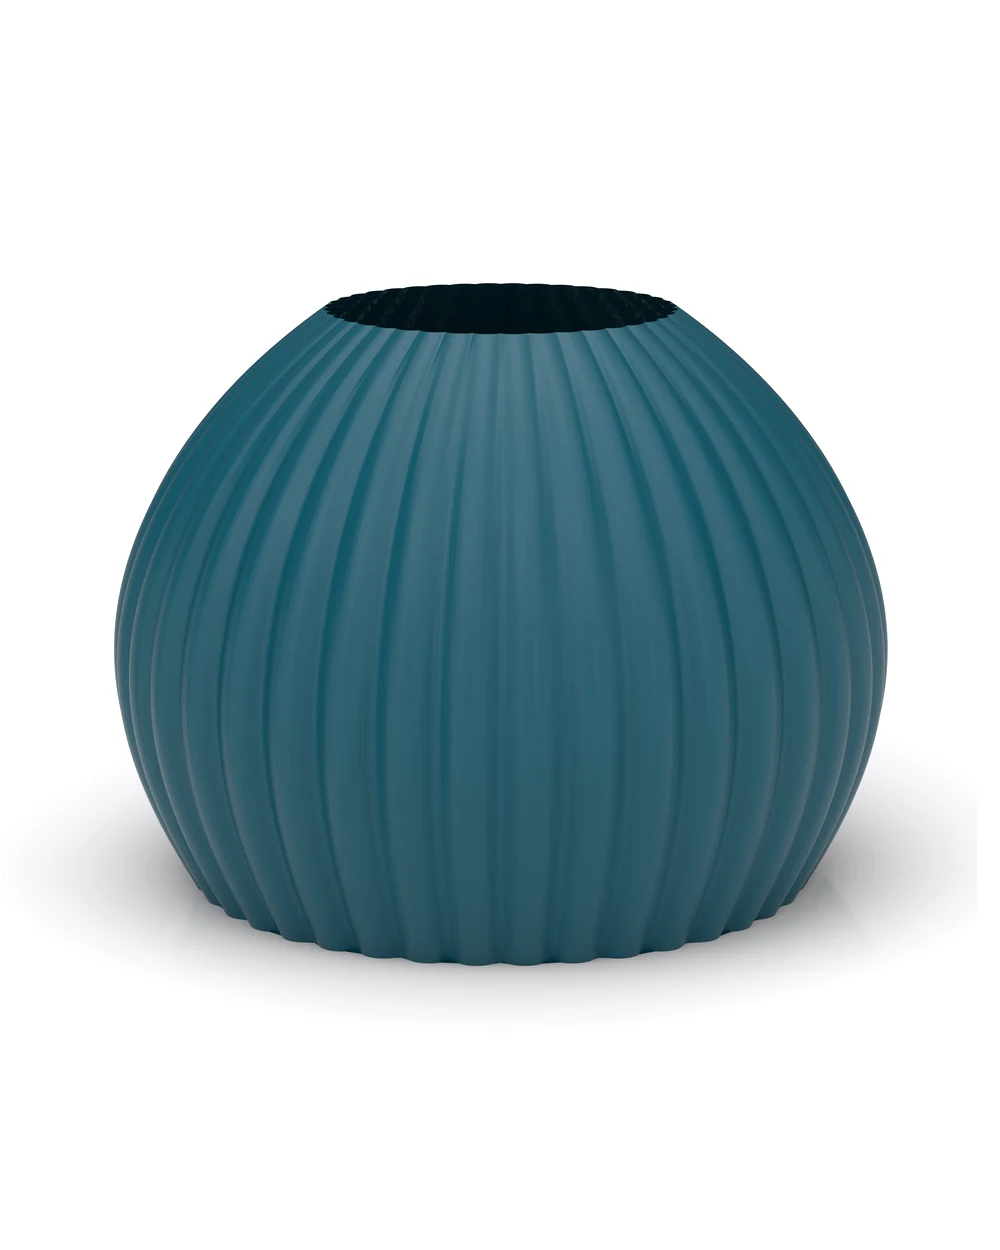
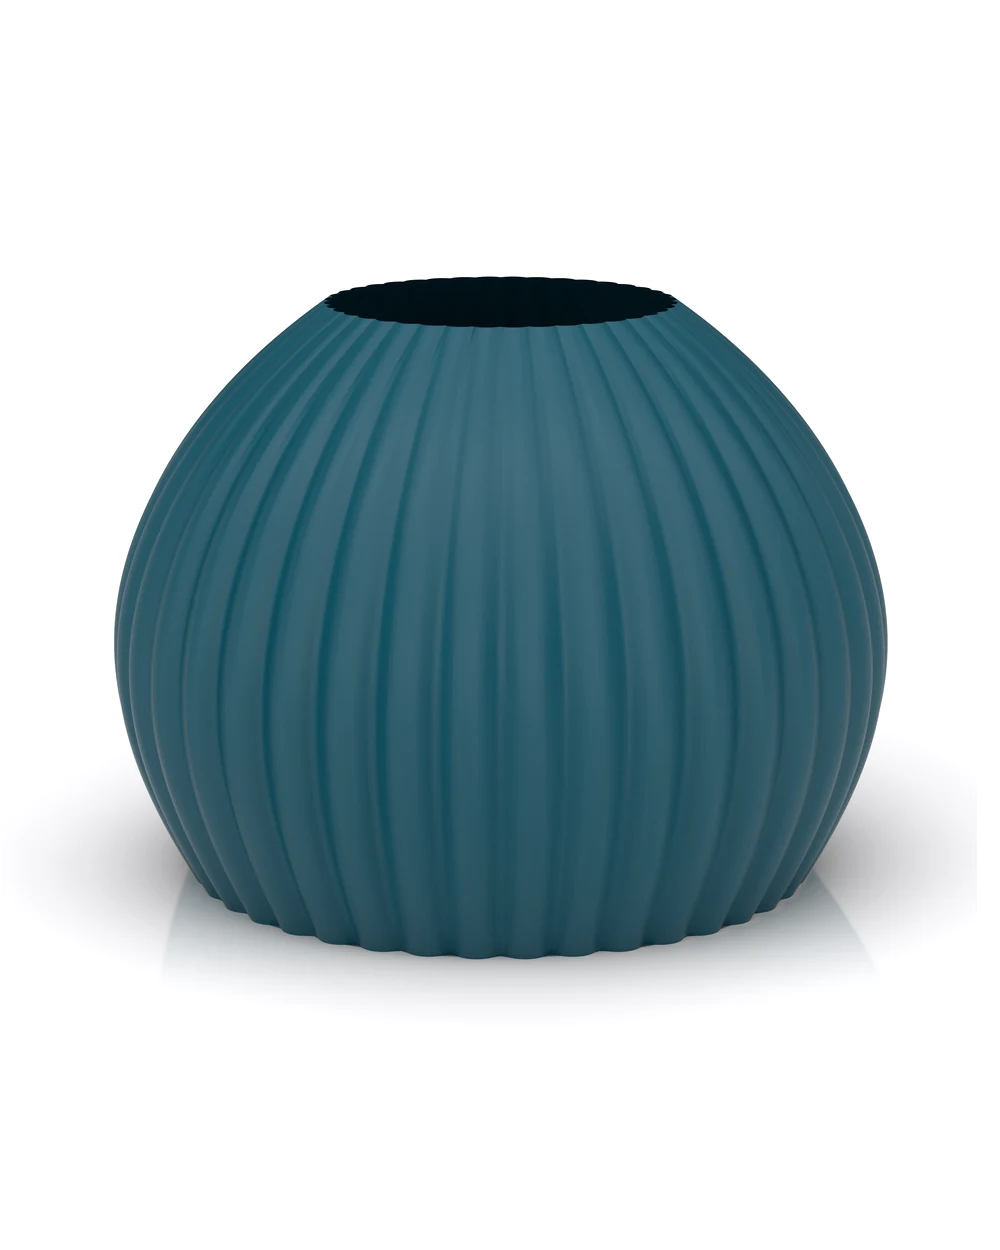
Bombato: render colore con modello STL originale (niente righe verticali) e layer di stampa visibili
Claude-Session: https://claude.ai/code/session_01MGUzPwwzTWodVZRn9utq3A

diff --git a/prodotto-bombato.html b/prodotto-bombato.html
@@ -704,19 +704,19 @@
     /* Il render del vaso in ogni colore (sito, luce uguale per tutti). Compare nel
        riquadro solo quando si tocca il pallino: NON e' fra le miniature. */
     var COLORI = {
-      "#a3444d":"images/Bombato/colori/bombato-red-wine.webp?v=c2",
-      "#91535d":"images/Bombato/colori/bombato-bordeaux.webp?v=c2",
-      "#bcbfb0":"images/Bombato/colori/bombato-sage.webp?v=c2",
-      "#646666":"images/Bombato/colori/bombato-antracite.webp?v=c2",
-      "#d8d0cd":"images/Bombato/colori/bombato-off-white.webp?v=c2",
-      "#e7cac0":"images/Bombato/colori/bombato-rose.webp?v=c2",
-      "#346371":"images/Bombato/colori/bombato-emerald-green.webp?v=c2",
-      "#0095a1":"images/Bombato/colori/bombato-blu-lagoon.webp?v=c2",
-      "#6b1492":"images/Bombato/colori/bombato-viola.webp?v=c2",
-      "#dd1d76":"images/Bombato/colori/bombato-magenta.webp?v=c2",
-      "#fed003":"images/Bombato/colori/bombato-giallo.webp?v=c2",
-      "#00924f":"images/Bombato/colori/bombato-verde.webp?v=c2",
-      "#e0bf42":"images/Bombato/colori/bombato-golden.webp?v=c2"
+      "#a3444d":"images/Bombato/colori/bombato-red-wine.webp?v=c3",
+      "#91535d":"images/Bombato/colori/bombato-bordeaux.webp?v=c3",
+      "#bcbfb0":"images/Bombato/colori/bombato-sage.webp?v=c3",
+      "#646666":"images/Bombato/colori/bombato-antracite.webp?v=c3",
+      "#d8d0cd":"images/Bombato/colori/bombato-off-white.webp?v=c3",
+      "#e7cac0":"images/Bombato/colori/bombato-rose.webp?v=c3",
+      "#346371":"images/Bombato/colori/bombato-emerald-green.webp?v=c3",
+      "#0095a1":"images/Bombato/colori/bombato-blu-lagoon.webp?v=c3",
+      "#6b1492":"images/Bombato/colori/bombato-viola.webp?v=c3",
+      "#dd1d76":"images/Bombato/colori/bombato-magenta.webp?v=c3",
+      "#fed003":"images/Bombato/colori/bombato-giallo.webp?v=c3",
+      "#00924f":"images/Bombato/colori/bombato-verde.webp?v=c3",
+      "#e0bf42":"images/Bombato/colori/bombato-golden.webp?v=c3"
     };
 
     var stato = { vista:'foto', da:'foto', foto:0, color:'#a3444d', nomeColore:'Red Wine', modelloAvviato:false };
